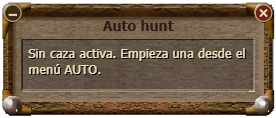
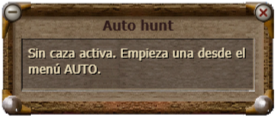
docs(diseno): recapturar ventanas reales con el glifo - centrado

diff --git a/docs/ESTADO.md b/docs/ESTADO.md
@@ -475,3 +475,5 @@ Arco portado (flecha, consumo, sin flechas, grupo 7 del cuerpo), botón derecho 
 - docs/diseno/ventanas-reales.html: galeria numerada de las capturas reales (pedido 2026-10-16, v0.85.24 sin cambio). Las bolas reales se dibujan en gui.js drawBall (9,9 r8); centrar glifos = ajuste de drawFrameBall, pendiente de elegir direccion.
 
 - Diseño ventanas: inventario (2) sobre captura real con márgenes y centrado de bolas medido (docs/diseno/inventario.html). v0.85.24, sin cambio de versión.
+
+- Capturas reales recapturadas con el "−" ya centrado (inventario, almacén, diario, menú auto, auto mini, misión mini, personaje). hbweb v0.85.25, diseño sin cambio de versión.
